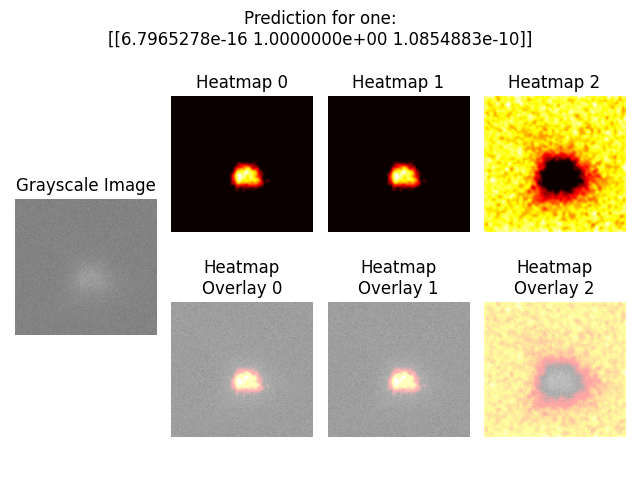
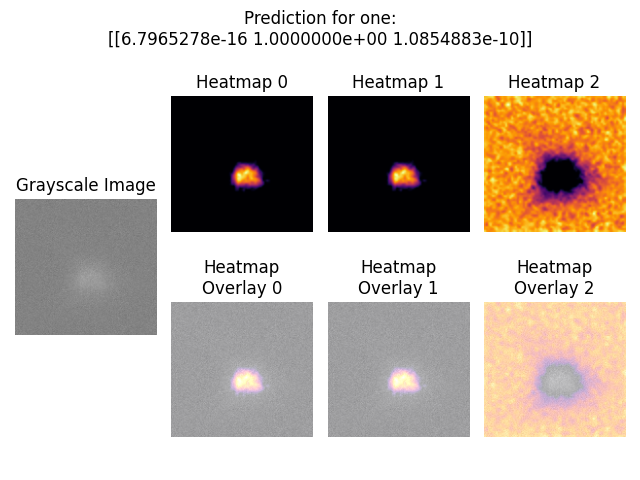
update to color scheme of heatmap

diff --git a/src/light_prop_heatmap.py b/src/light_prop_heatmap.py
@@ -1,5 +1,4 @@
 from pathlib import Path
-
 import cv2
 import matplotlib.pyplot as plt
 import numpy as np
@@ -7,13 +6,15 @@ import tensorflow as tf
 import tensorflow.keras.backend as K
 from tensorflow.keras.models import load_model
 
+# disable eager execution to allow for analysis of gradients
 tf.compat.v1.disable_eager_execution()
-
+# get path from current directory
 FILE_PATH = Path(__file__).parent.absolute()
 
 def main():
     # Heat map of class activation the local path to our target image
     # This is similar to the example in Section 5.4 from the Chollet book
+    # Use archived model
     data_names = ['zero', 'one', 'two']
     model = load_model('./archive/model_cnn.h5')
     cnn_heatmap(data_names, model)
@@ -86,7 +87,7 @@ def cnn_heatmap(data_names, model):
             plt.subplot(2, 4, 2 + ii)
             plt.axis('off')
             plt.title(f'Heatmap {ii}')
-            plt.imshow(heatmap, cmap='hot')
+            plt.imshow(heatmap, cmap='inferno')
 
             # turn into black and white image
             img = np.load(data_path)
@@ -98,7 +99,7 @@ def cnn_heatmap(data_names, model):
             heatmap = np.uint8(255 * heatmap)
 
             # We apply the heatmap to the original image
-            heatmap = cv2.applyColorMap(heatmap, cv2.COLORMAP_HOT)
+            heatmap = cv2.applyColorMap(heatmap, cv2.COLORMAP_INFERNO)
 
             # 0.4 here is a heatmap intensity factor
             superimposed_img = (heatmap * 0.4) + (img * .8)
